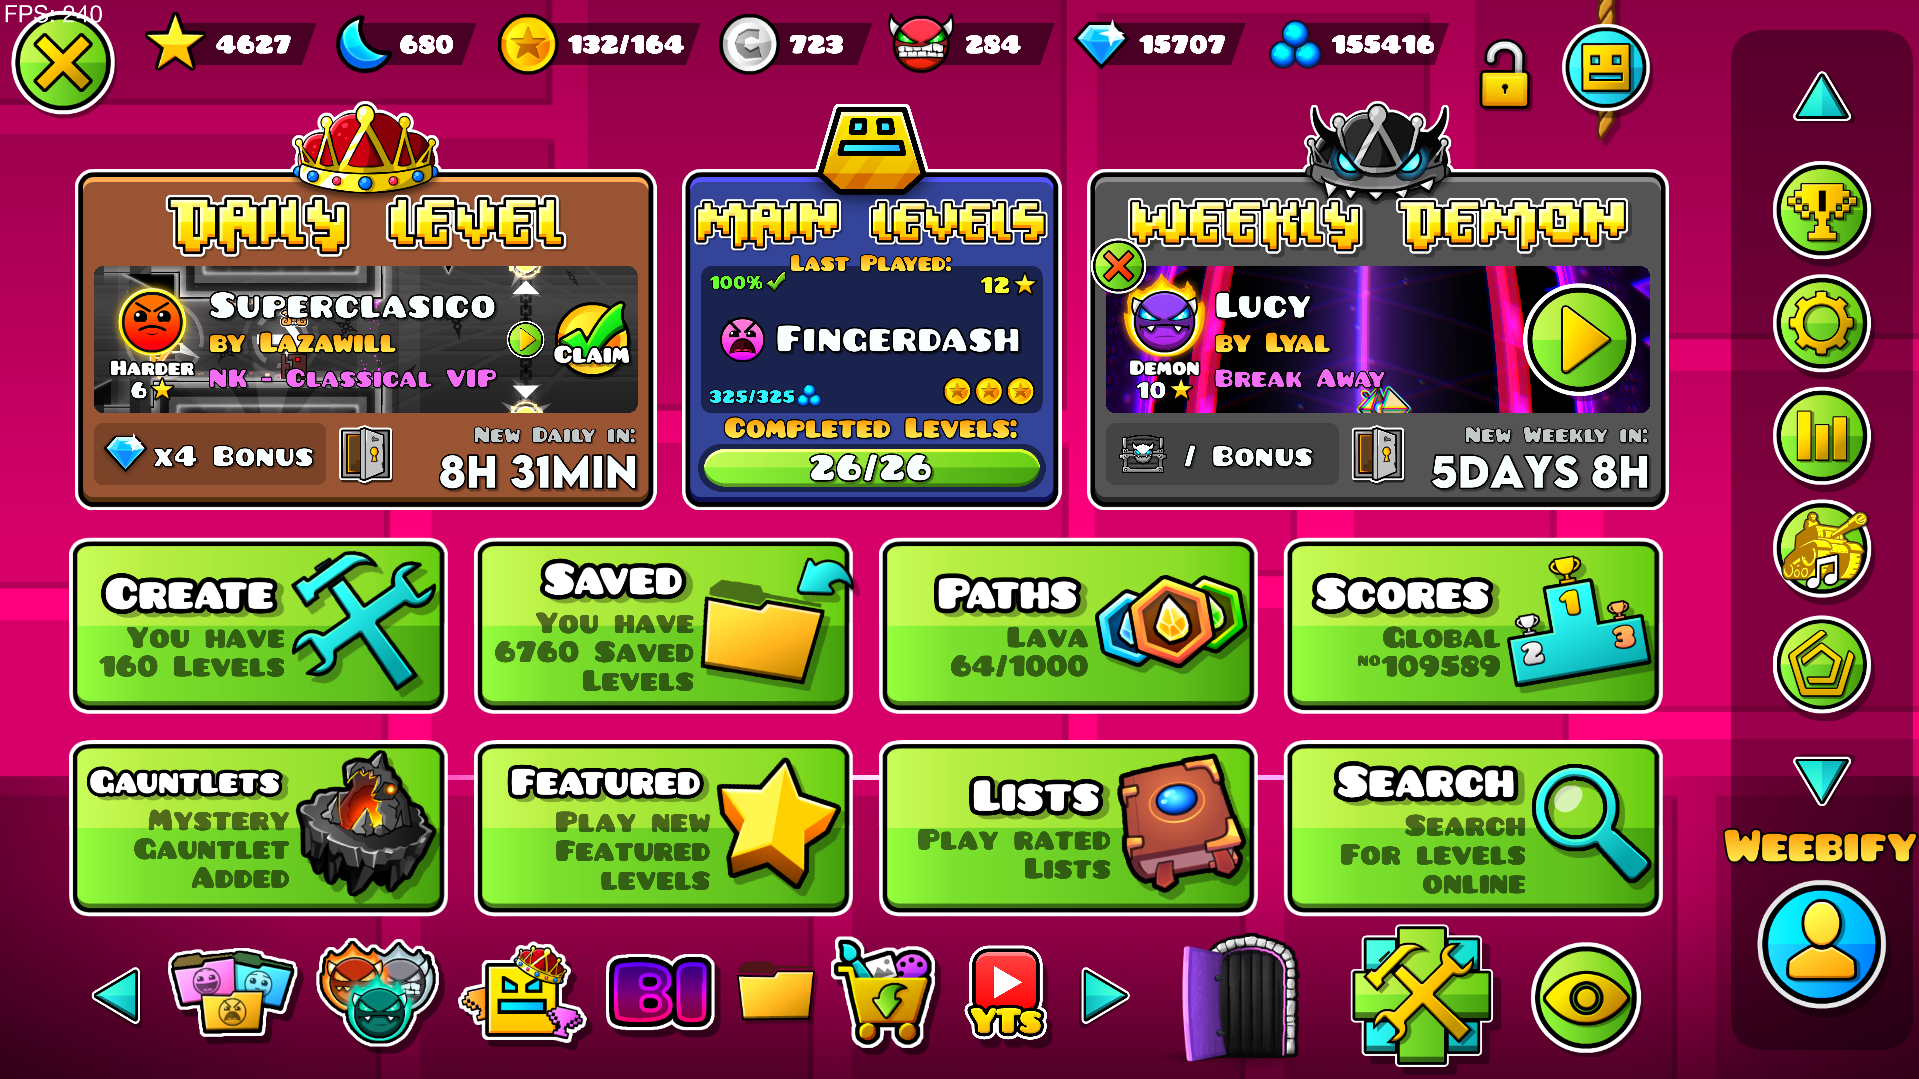
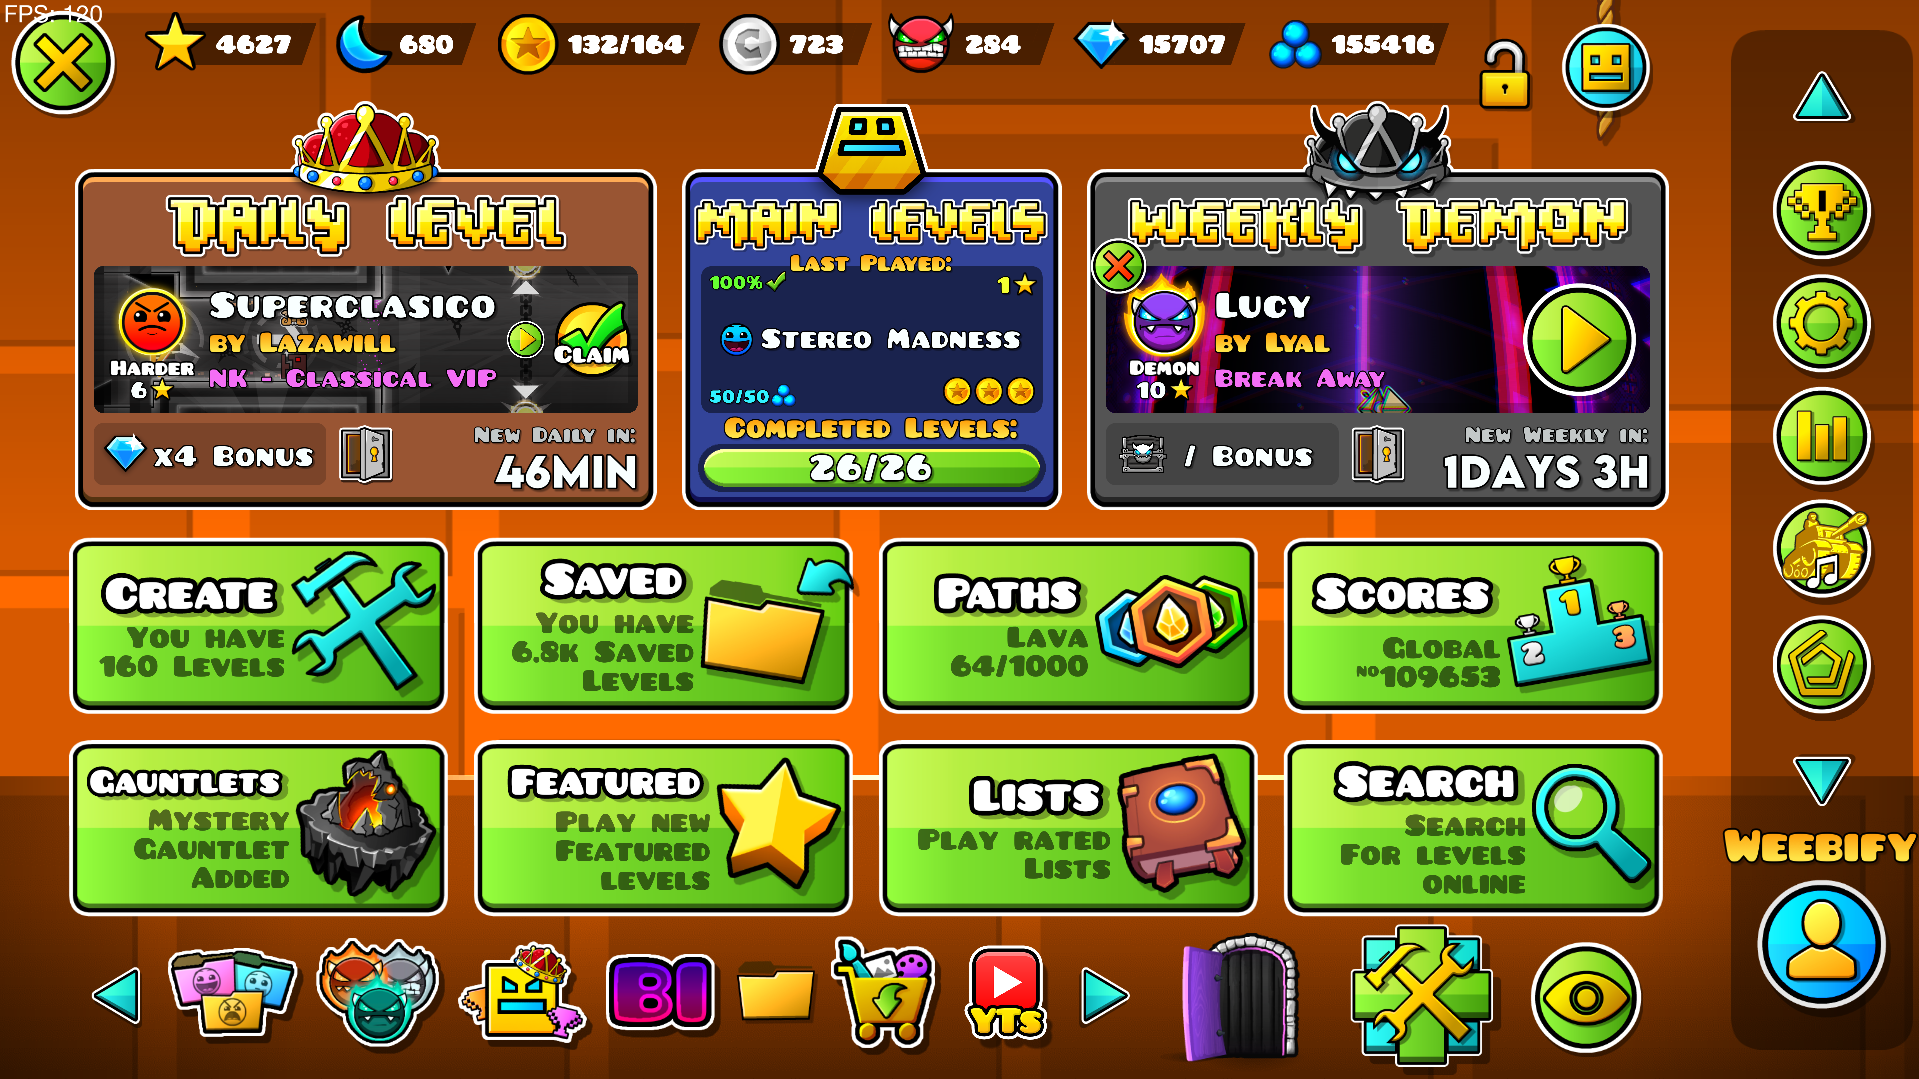
thanks teamsex for reporting bug

diff --git a/src/main.cpp b/src/main.cpp
@@ -30,6 +30,13 @@ std::string getPathString(int n) {
 	}
 }
 
+std::string abbreviateNumber(int n) {
+	if (n < 1000) return std::to_string(n);
+	if (n < 1000000) return fmt::format("{:.1f}k", n / 1000.f);
+	if (n < 1000000000) return fmt::format("{:.1f}m", n / 1000000.f);
+	return fmt::format("{:.1f}b", n / 1000000000.f);
+}
+
 class $modify(CrazyLayer, MenuLayer) {
 	static void onModify(auto& self) {
         self.setHookPriority("MenuLayer::init", INT_MIN/2 + 1); // making sure its run before pages api but after index developer points
@@ -188,6 +195,7 @@ class $modify(CrazyLayer, MenuLayer) {
 			Variables::GlobalRank = -1;
 		} else if (Variables::OldStarsCount != gsm->getStat("6")) {
 			Variables::GlobalRank = 0;
+			log::warn("hi hihih i");
 			glm->getLeaderboardScores("leaderboard_global");
 		}
 
@@ -309,17 +317,21 @@ class $modify(CrazyLayer, MenuLayer) {
 		int pathProgress = gsm->getStat(std::to_string(activePath).c_str());
 		if (pathProgress > 1000) pathProgress = 1000;
 
-		mainMenu->addChild(RDButton::create(this, "RD_createLabel.png"_spr, {"You have", fmt::format("{} Levels", LocalLevelManager::get()->m_localLevels->count())}, "RD_create.png"_spr, 0.95f, menu_selector(CreatorLayer::onMyLevels), "create-button"));
-		mainMenu->addChild(RDButton::create(this, "RD_savedLabel.png"_spr, {"You have", fmt::format("{} Saved", glm->getSavedLevels(false, 0)->count()), "Levels"}, "RD_saved.png"_spr, 0.95f, menu_selector(CreatorLayer::onSavedLevels), "saved-button"));
-		mainMenu->addChild(RDButton::create(this, "RD_pathsLabel.png"_spr, {getPathString(activePath - 29), fmt::format("{}/1000", pathProgress)}, "RD_paths.png"_spr, 0.8f, menu_selector(CreatorLayer::onPaths), "paths-button"));
-		mainMenu->addChild(RDButton::create(this, "RD_leaderboardsLabel.png"_spr, {"Global", fmt::format("#{}", Variables::GlobalRank)}, "RD_leaderboards.png"_spr, 0.85f, menu_selector(CreatorLayer::onLeaderboards), "leaderboards-button"));
 		if (Mod::get()->getSettingValue<bool>("hide-bottom-buttons-texts")) {
+			mainMenu->addChild(RDButton::create(this, "RD_createLabel.png"_spr, {}, "RD_create.png"_spr, 0.95f, menu_selector(CreatorLayer::onMyLevels), "create-button"));
+			mainMenu->addChild(RDButton::create(this, "RD_savedLabel.png"_spr, {}, "RD_saved.png"_spr, 0.95f, menu_selector(CreatorLayer::onSavedLevels), "saved-button"));
+			mainMenu->addChild(RDButton::create(this, "RD_pathsLabel.png"_spr, {}, "RD_paths.png"_spr, 0.8f, menu_selector(CreatorLayer::onPaths), "paths-button"));
+			mainMenu->addChild(RDButton::create(this, "RD_leaderboardsLabel.png"_spr, {}, "RD_leaderboards.png"_spr, 0.85f, menu_selector(CreatorLayer::onLeaderboards), "leaderboards-button"));
 			mainMenu->addChild(RDButton::create(this, "RD_gauntletsLabel.png"_spr, {}, "RD_gauntlets.png"_spr, 1.f, menu_selector(CreatorLayer::onGauntlets), "gauntlets-button"));
 			mainMenu->addChild(RDButton::create(this, "RD_featuredLabel.png"_spr, {}, "RD_featured.png"_spr, 0.95f, menu_selector(CreatorLayer::onFeaturedLevels), "featured-button"));
 			mainMenu->addChild(RDButton::create(this, "RD_listsLabel.png"_spr, {}, "RD_lists.png"_spr, 1.f, menu_selector(CreatorLayer::onTopLists), "lists-button"));
 			mainMenu->addChild(RDButton::create(this, "RD_searchLabel.png"_spr, {}, "RD_search.png"_spr, 0.9f, menu_selector(CreatorLayer::onOnlineLevels), "search-button"));
 		} else {
-			mainMenu->addChild(RDButton::create(this, "RD_gauntletsLabel.png"_spr, {"Mystery", "Gauntlet", "Added"}, "RD_gauntlets.png"_spr, 1.f, menu_selector(CreatorLayer::onGauntlets), "gauntlets-button"));
+			mainMenu->addChild(RDButton::create(this, "RD_createLabel.png"_spr, {"You have", fmt::format("{} Levels", abbreviateNumber(LocalLevelManager::get()->m_localLevels->count()))}, "RD_create.png"_spr, 0.95f, menu_selector(CreatorLayer::onMyLevels), "create-button"));
+			mainMenu->addChild(RDButton::create(this, "RD_savedLabel.png"_spr, {"You have", fmt::format("{} Saved", abbreviateNumber(glm->getSavedLevels(false, 0)->count())), "Levels"}, "RD_saved.png"_spr, 0.95f, menu_selector(CreatorLayer::onSavedLevels), "saved-button"));
+			mainMenu->addChild(RDButton::create(this, "RD_pathsLabel.png"_spr, {getPathString(activePath - 29), fmt::format("{}/1000", pathProgress)}, "RD_paths.png"_spr, 0.8f, menu_selector(CreatorLayer::onPaths), "paths-button"));
+			mainMenu->addChild(RDButton::create(this, "RD_leaderboardsLabel.png"_spr, {"Global", fmt::format("#{}", Variables::GlobalRank)}, "RD_leaderboards.png"_spr, 0.85f, menu_selector(CreatorLayer::onLeaderboards), "leaderboards-button"));
+			mainMenu->addChild(RDButton::create(this, "RD_gauntletsLabel.png"_spr, {"Forest", "Gauntlet", "Added"}, "RD_gauntlets.png"_spr, 1.f, menu_selector(CreatorLayer::onGauntlets), "gauntlets-button"));
 			mainMenu->addChild(RDButton::create(this, "RD_featuredLabel.png"_spr, {"Play new", "Featured", "levels"}, "RD_featured.png"_spr, 0.95f, menu_selector(CreatorLayer::onFeaturedLevels), "featured-button"));
 			mainMenu->addChild(RDButton::create(this, "RD_listsLabel.png"_spr, {"Play rated", "Lists"}, "RD_lists.png"_spr, 1.f, menu_selector(CreatorLayer::onTopLists), "lists-button"));
 			mainMenu->addChild(RDButton::create(this, "RD_searchLabel.png"_spr, {"Search" , "For levels", "online"}, "RD_search.png"_spr, 0.9f, menu_selector(CreatorLayer::onOnlineLevels), "search-button"));

diff --git a/src/hooks/GameLevelManager.hpp b/src/hooks/GameLevelManager.hpp
@@ -20,29 +20,42 @@ class $modify(MyGLM, GameLevelManager) {
     void onGetLeaderboardScoresCompleted(gd::string response, gd::string tag) {
         GameLevelManager::onGetLeaderboardScoresCompleted(response, tag);
 
-        if (response != "-1" && tag == "leaderboard_global") {
-            if (Variables::GlobalRank != -1) {
-                std::string responseStd = response;
-                std::string name = GJAccountManager::get()->m_username;
-                std::transform(responseStd.begin(), responseStd.end(), responseStd.begin(), [](unsigned char c) { return std::tolower(c); });
-                std::transform(name.begin(), name.end(), name.begin(), [](unsigned char c) { return std::tolower(c); });
-                auto pos = responseStd.find(fmt::format("1:{}", name));
-                auto pos2 = responseStd.find("|", pos);
-                if (pos < responseStd.size() && pos2 < responseStd.size()) {
-                    auto dict = GameLevelManager::responseToDict(responseStd.substr(pos, pos2 - pos), false);
-                    Variables::GlobalRank = as<CCString*>(dict->objectForKey("6"))->intValue();
-                    Variables::OldStarsCount = GameStatsManager::sharedState()->getStat("6");
+        if (tag == "leaderboard_global") {
+            if (response != "-1") {
+                if (Variables::GlobalRank != -1) {
+                    std::string responseStd = response;
+                    std::string name = GJAccountManager::get()->m_username;
+                    std::transform(responseStd.begin(), responseStd.end(), responseStd.begin(), [](unsigned char c) { return std::tolower(c); });
+                    std::transform(name.begin(), name.end(), name.begin(), [](unsigned char c) { return std::tolower(c); });
+                    auto pos = responseStd.find(fmt::format("1:{}", name));
+                    auto pos2 = responseStd.find("|", pos);
+                    if (pos < responseStd.size()) {
+                        if (pos2 >= responseStd.size()) {
+                            pos2 = responseStd.size() - 1;
+                        }
+                        auto dict = GameLevelManager::responseToDict(responseStd.substr(pos, pos2 - pos), false);
+                        Variables::GlobalRank = as<CCString*>(dict->objectForKey("6"))->intValue();
+                        Variables::OldStarsCount = GameStatsManager::sharedState()->getStat("6");
 
+                        if (auto layer = getChildOfType<MenuLayer>(CCDirector::sharedDirector()->getRunningScene(), 0)) {
+                            if (auto button = typeinfo_cast<RDButton*>(layer->getChildByID("redash-menu"_spr)->getChildByID("main-menu"_spr)->getChildByID("leaderboards-button"))) {
+                                button->updateLeaderboardLabel();
+                            }
+                        }
+                    } else {
+                        log::error("Failed to find player in leaderboard response");
+                        log::error("response: {}", responseStd);
+                        log::error("name: {}", name);
+                        log::error("pos: {}; pos2: {}", pos, pos2);
+                    }
+                }
+            } else {
+                if (Variables::GlobalRank != -1) {
                     if (auto layer = getChildOfType<MenuLayer>(CCDirector::sharedDirector()->getRunningScene(), 0)) {
                         if (auto button = typeinfo_cast<RDButton*>(layer->getChildByID("redash-menu"_spr)->getChildByID("main-menu"_spr)->getChildByID("leaderboards-button"))) {
-                            button->updateLeaderboardLabel();
+                            button->getLeaderboardRankFailed();
                         }
                     }
-                } else {
-                    log::error("Failed to find player in leaderboard response");
-                    log::error("response: {}", responseStd);
-                    log::error("name: {}", name);
-                    log::error("pos: {}; pos2: {}", pos, pos2);
                 }
             }
         }
@@ -101,10 +114,12 @@ class $modify(MyGLM, GameLevelManager) {
     void onGetGJDailyLevelStateCompleted(gd::string response, gd::string tag) {
         GameLevelManager::onGetGJDailyLevelStateCompleted(response, tag);
 
-        auto responseStd = std::string(response.c_str());
-        auto timeLeft = std::stoi(responseStd.substr(responseStd.find('|') + 1));
-
         if (response != "-1") {
+            auto responseStd = std::string(response.c_str());
+            auto pos = responseStd.find('|') + 1;
+            if (pos >= responseStd.size()) return;
+            auto timeLeft = std::stoi(responseStd.substr());
+
             if (auto layer = getChildOfType<MenuLayer>(CCDirector::sharedDirector()->getRunningScene(), 0)) {
                 if (tag == "daily_state") {
                     if (this->m_dailyIDUnk == 0) {

diff --git a/src/ui/RDDailyNode.cpp b/src/ui/RDDailyNode.cpp
@@ -438,7 +438,7 @@ void RDDailyNode::setupLevelMenu(GJGameLevel* level) {
     nameLabel->setPositionX(difficultySprite->getPositionX() + difficultySprite->getScaledContentWidth()/2 + 5.f);
     nameLabel->setPositionY(baseY + menuSize.height*3/4);
     nameLabel->setID("name-label");
-    m_menu->addChild(nameLabel, 1);
+    m_menu->addChild(nameLabel, 8);
 
     auto creatorLabel = CCLabelBMFont::create(fmt::format("by {}", level->m_creatorName).c_str(), "goldFont.fnt");
     creatorLabel->setScale(0.5f);
@@ -454,7 +454,7 @@ void RDDailyNode::setupLevelMenu(GJGameLevel* level) {
     creatorButton->setPositionY(baseY + menuSize.height/2);
     creatorButton->m_scaleMultiplier = 1.1f;
     creatorButton->setID("creator-button");
-    m_menu->addChild(creatorButton, 1);
+    m_menu->addChild(creatorButton, 8);
 
     auto songName = "[Failed to load song name]";
     if (auto song = MusicDownloadManager::sharedState()->getSongInfoObject(level->m_songID)) {
@@ -470,7 +470,7 @@ void RDDailyNode::setupLevelMenu(GJGameLevel* level) {
     songLabel->setPositionX(nameLabel->getPositionX());
     songLabel->setPositionY(baseY + menuSize.height/4);
     songLabel->setID("song-label");
-    m_menu->addChild(songLabel, 1);
+    m_menu->addChild(songLabel, 8);
 
     auto starsLabel = CCLabelBMFont::create(std::to_string(level->m_stars).c_str(), "bigFont.fnt");
     starsLabel->setScale(0.32f);
@@ -538,6 +538,12 @@ void RDDailyNode::downloadThumbnailFinished() {
                 clippingNode->addChild(sprite);
                 m_menu->addChild(clippingNode, 0);
                 sprite->runAction(CCFadeIn::create(0.25f));
+
+                auto overlay = CCScale9Sprite::create("innerBG_overlay.png"_spr);
+                overlay->setPosition(m_innerBG->getPosition());
+                overlay->setScale(m_innerBG->getScale());
+                overlay->setContentSize(m_innerBG->getContentSize());
+                m_menu->addChild(overlay, 1);
 
                 image->release();
             });

diff --git a/src/ui/RDButton.cpp b/src/ui/RDButton.cpp
@@ -63,6 +63,7 @@ bool RDButton::init(CCObject* target, std::string title, std::initializer_list<s
 	if (titleSprite->getScaledContentWidth() > 80.f) titleSprite->setScale(0.8f * (80.f / titleSprite->getScaledContentWidth()));
 	titleSprite->setID("title-sprite");
 	labelMenu->addChild(titleSprite);
+	m_titleSprite = titleSprite;
 
 	int i = 0;
 	for (auto desc : description) {
@@ -108,6 +109,15 @@ bool RDButton::init(CCObject* target, std::string title, std::initializer_list<s
 	this->setID(id);
 
 	return true;
+}
+
+void RDButton::getLeaderboardRankFailed() {
+	m_loadingCircle->setVisible(false);
+	for (int i = 1; i < m_labelMenu->getChildrenCount(); i++) {
+		m_labelMenu->getChildByID(fmt::format("desc-label-{}", i))->removeFromParent();
+	}
+	m_labelMenu->setVisible(true);
+	m_labelMenu->updateLayout();
 }
 
 void RDButton::updateLeaderboardLabel() {

diff --git a/src/ui/RDButton.hpp b/src/ui/RDButton.hpp
@@ -5,8 +5,10 @@ class RDButton : public CCMenuItemSpriteExtra {
 public:
     LoadingCircle* m_loadingCircle;
     CCMenu* m_labelMenu;
+    CCSprite* m_titleSprite;
 
     void updateLeaderboardLabel();
+    void getLeaderboardRankFailed();
 
     static RDButton* create(CCObject* target, std::string title, std::initializer_list<std::string> description, std::string sprite, float spriteScale, cocos2d::SEL_MenuHandler callback, std::string id);
     bool init(CCObject* target, std::string title, std::initializer_list<std::string> description, std::string sprite, float spriteScale, cocos2d::SEL_MenuHandler callback, std::string id);
